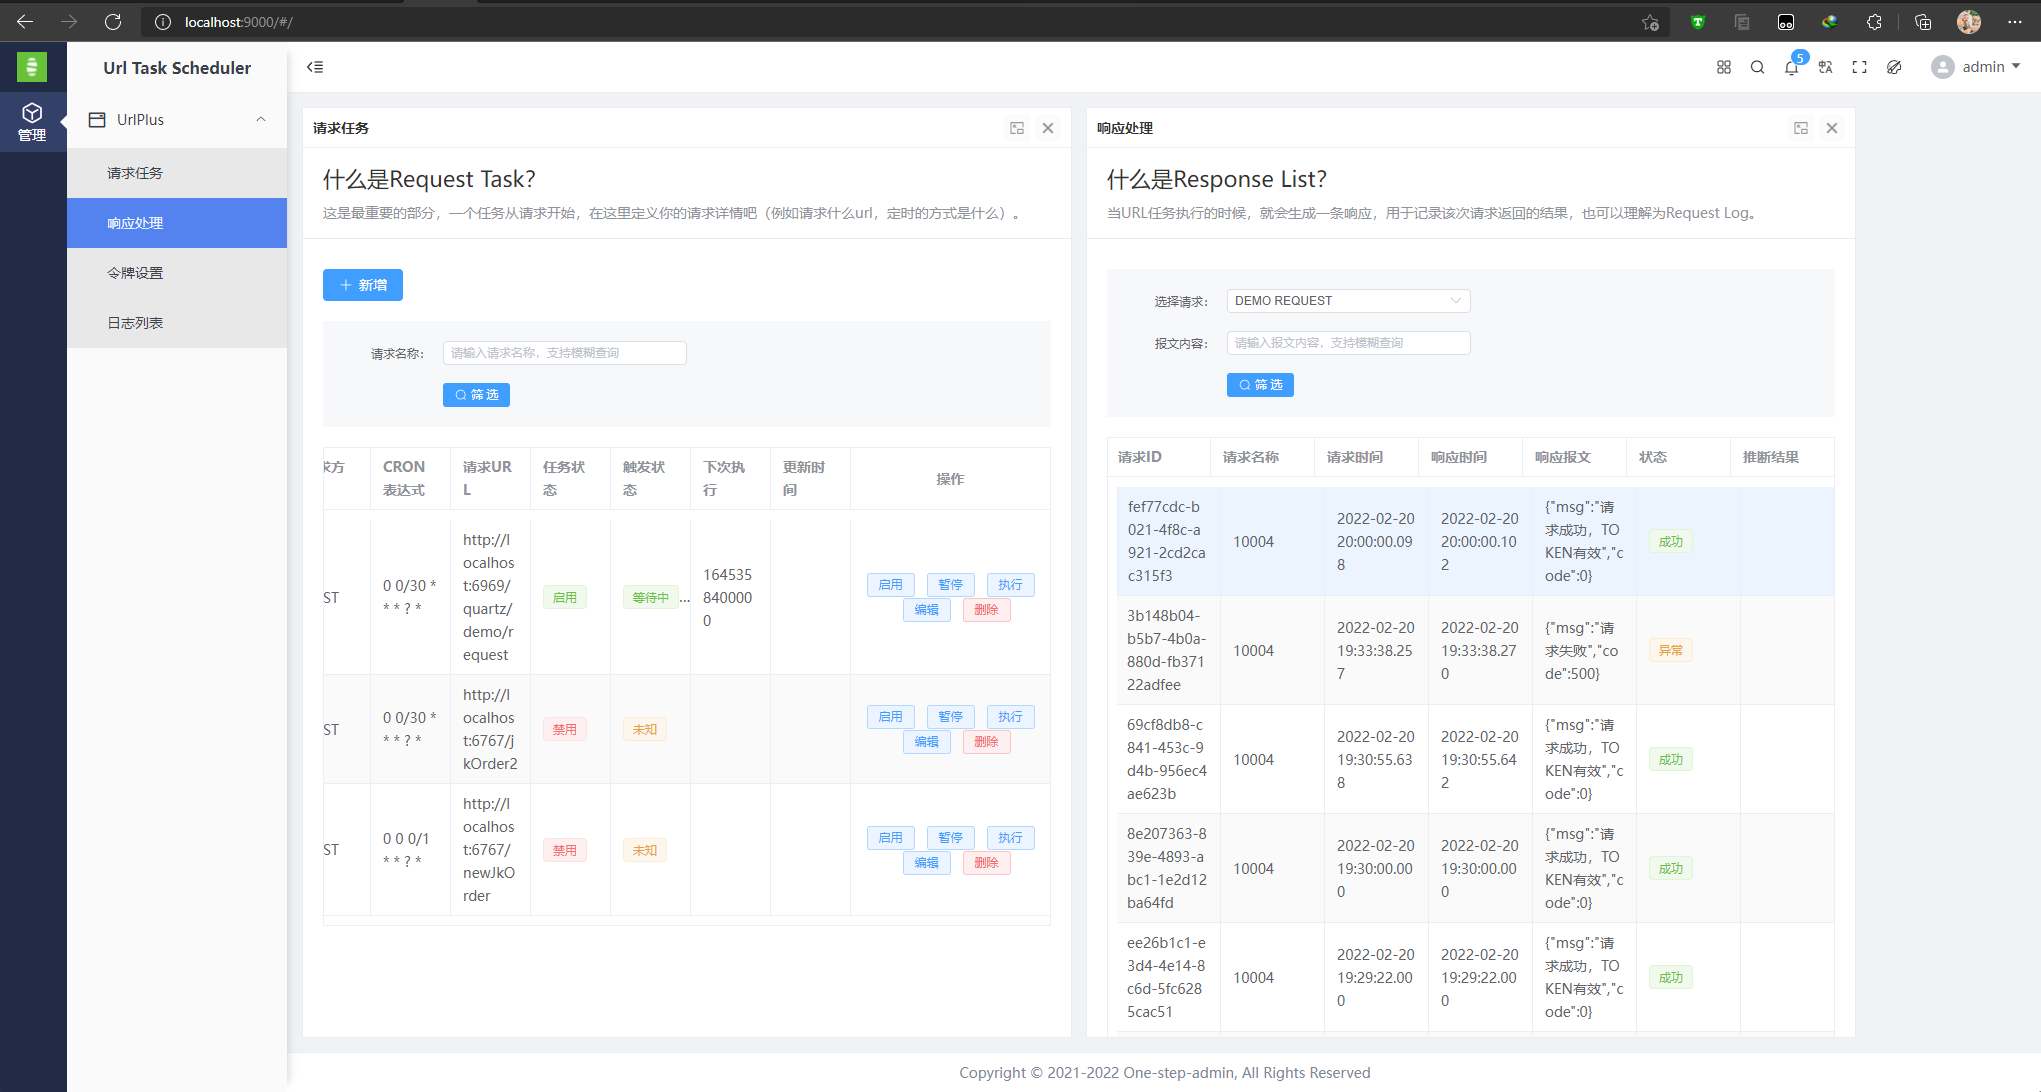
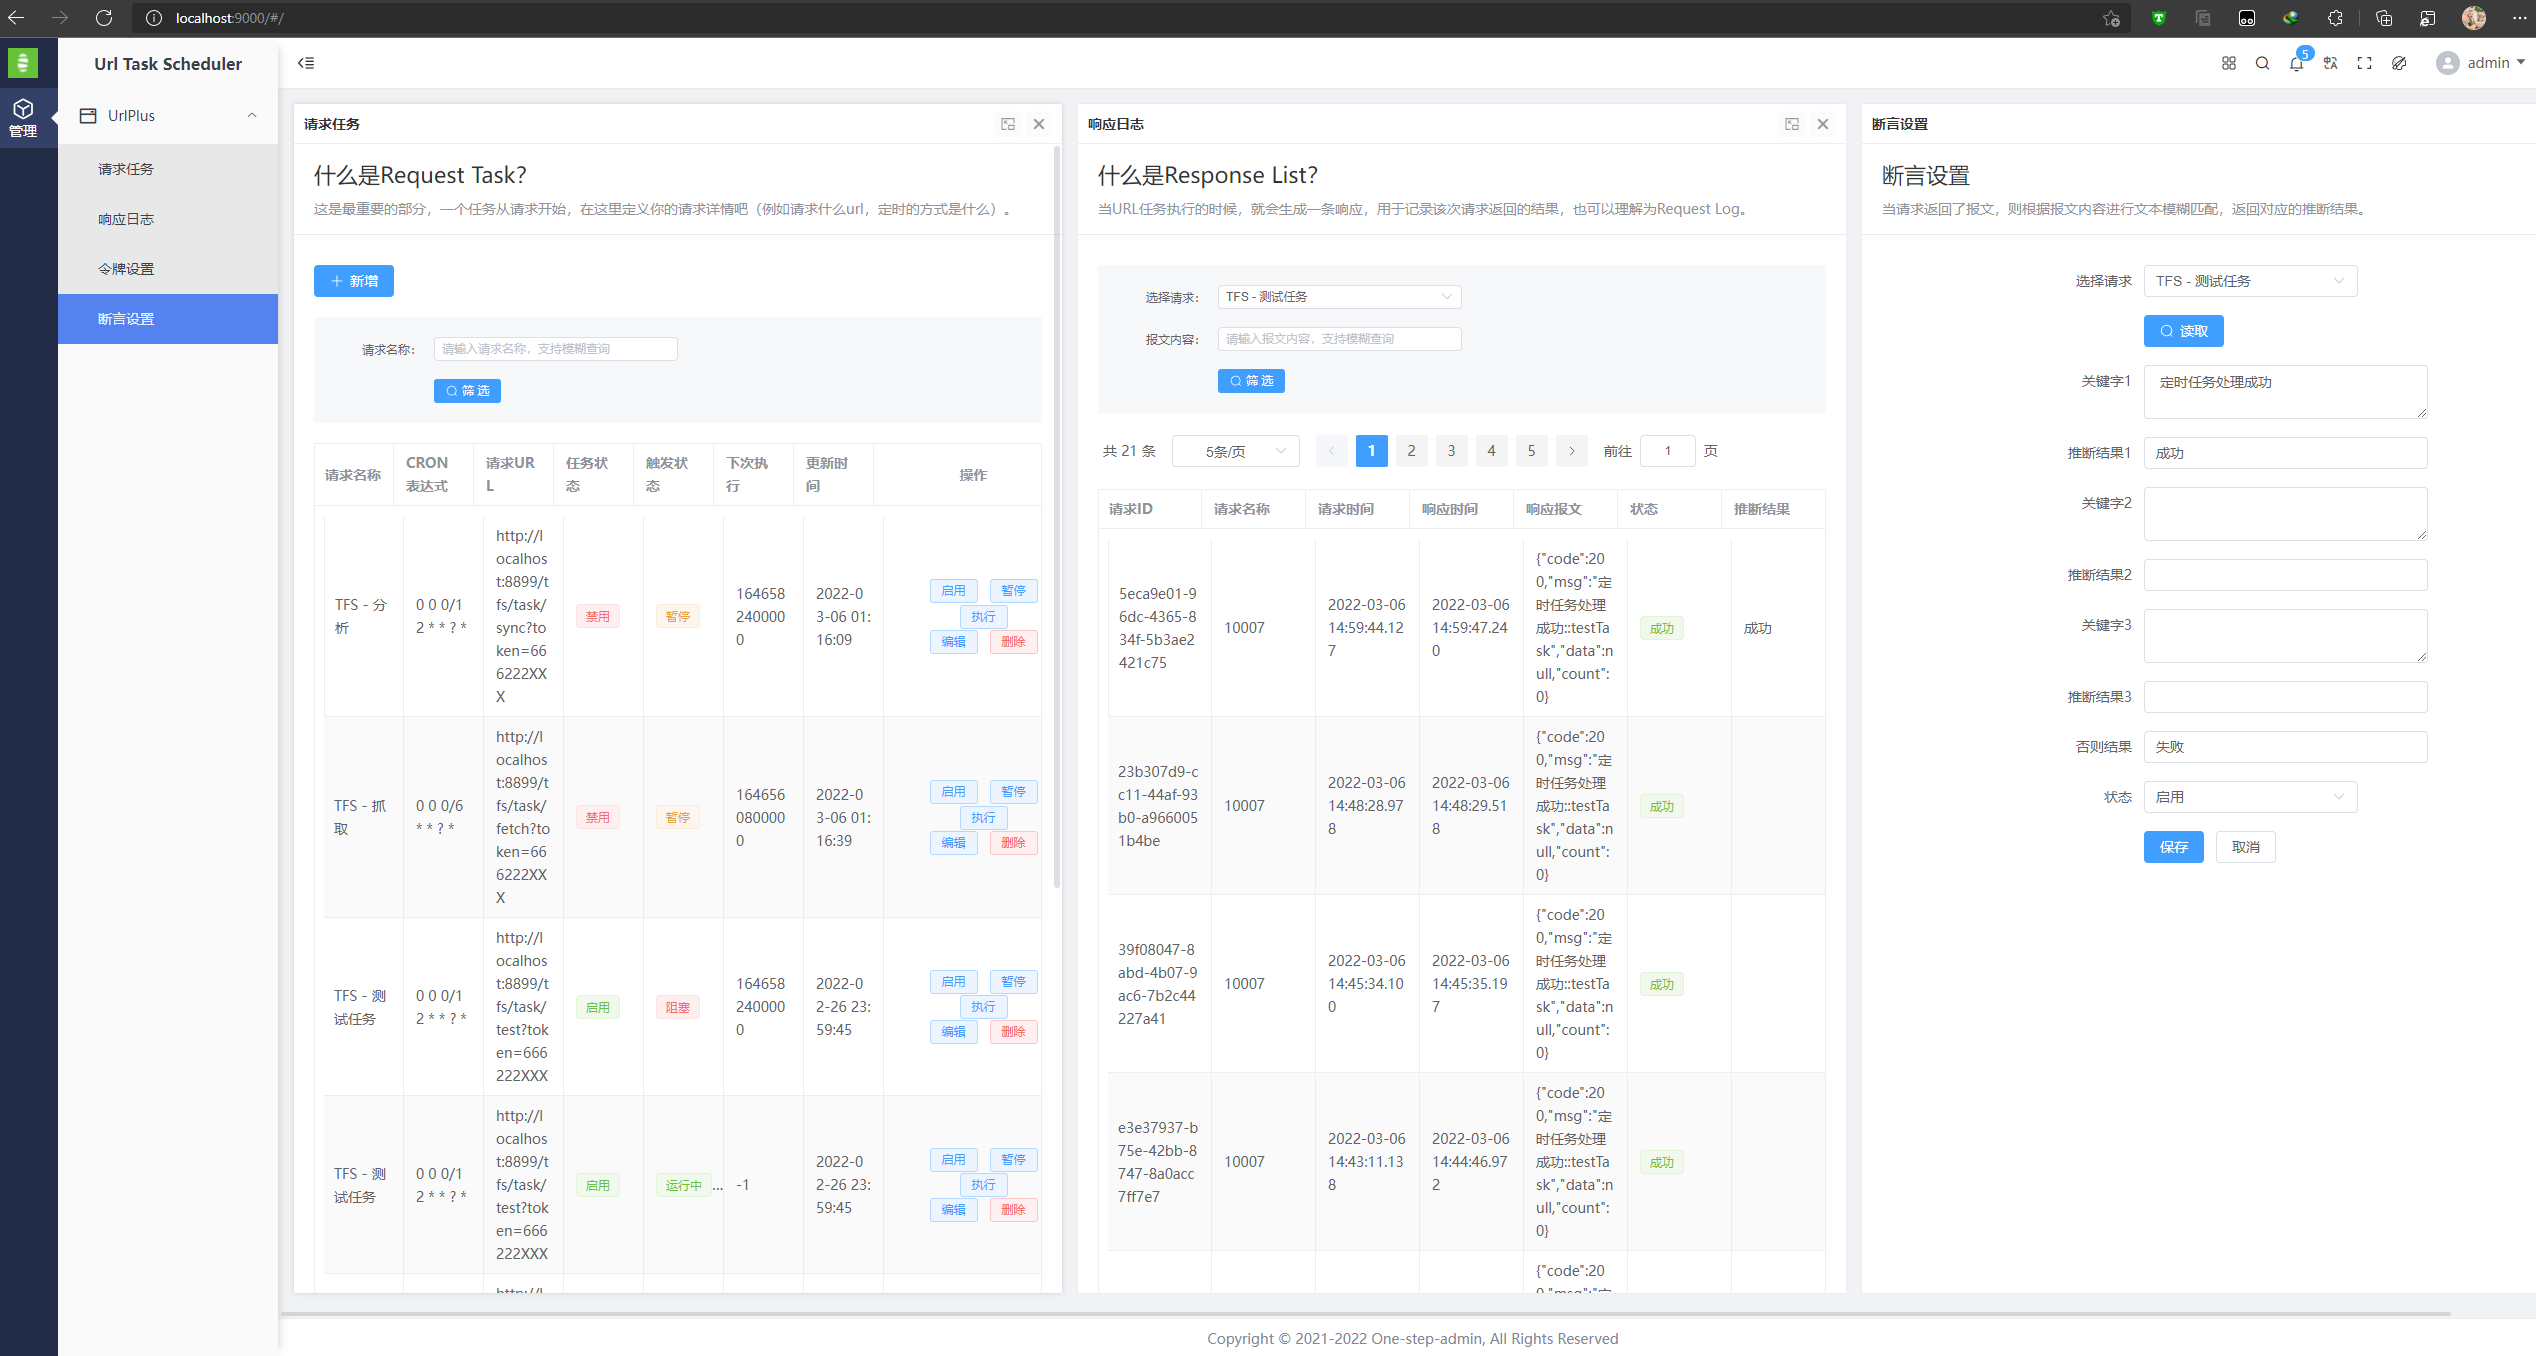
| 2022-03-06 | 实现响应推断处理逻辑.优化UI显示逻辑.
| 2022-03-06 | 实现响应推断处理逻辑.优化UI显示逻辑.

diff --git a/ui/src/views/windows/RequestList/index.vue b/ui/src/views/windows/RequestList/index.vue
@@ -18,9 +18,9 @@
                 </el-form>
             </search-bar>
             <el-table ref="table" class="list-table" :data="dataList" border stripe highlight-current-row>
-                <el-table-column prop="requestId" label="请求ID" />
+<!--                <el-table-column prop="requestId" label="请求ID" />-->
                 <el-table-column prop="requestName" label="请求名称" />
-                <el-table-column prop="requestMethod" label="请求方式" />
+<!--                <el-table-column prop="requestMethod" label="请求方式" />-->
                 <el-table-column prop="requestCron" label="CRON表达式" />
                 <el-table-column prop="requestUrl" label="请求URL" />
                 <el-table-column prop="status" label="任务状态" >
@@ -46,8 +46,8 @@
                 <el-table-column label="操作" width="200" align="center">
                     <template #default="scope">
                         <el-button type="primary" size="small" plain @click="start(scope.row)">启用</el-button>
-                        <el-button type="primary" size="small" plain @click="pause(scope.row)">暂停</el-button>
-                        <el-button type="primary" size="small" plain @click="trigger(scope.row)">执行</el-button>
+                        <el-button type="primary" size="small" plain @click="pause(scope.row)">暂停</el-button><br>
+                        <el-button type="primary" size="small" plain @click="trigger(scope.row)">执行</el-button><br>
                         <el-button type="primary" size="small" plain @click="onEdit(scope.row)">编辑</el-button>
                         <el-button type="danger" size="small" plain @click="onDel(scope.row)">删除</el-button>
                     </template>

diff --git a/ui/src/views/windows/ResponseList/index.vue b/ui/src/views/windows/ResponseList/index.vue
@@ -14,6 +14,7 @@
                                         :key="item.requestId"
                                         :label="item.requestName"
                                         :value="item.requestId"
+                                        @click="getDataList"
                                     >
                                     </el-option>
                                 </el-select>
@@ -35,7 +36,7 @@
             />
             <el-table ref="table" class="list-table" :data="dataList" border stripe highlight-current-row>
                 <el-table-column prop="responseId" label="请求ID" />
-                <el-table-column prop="requestId" label="请求名称" />
+<!--                <el-table-column prop="requestId" label="请求名称" />-->
                 <el-table-column prop="requestTime" label="请求时间" />
                 <el-table-column prop="responseTime" label="响应时间" />
                 <el-table-column prop="responseText" label="响应报文" />

diff --git a/ui/src/views/windows/AssumptionEdit/index.vue b/ui/src/views/windows/AssumptionEdit/index.vue
@@ -129,6 +129,7 @@ export default {
                                   valueFirst:'' ,
                                   valueSecond:'',
                                   valueThird:'',
+                                  status: '1',
                           }
                           this.form.requestId=this.search.requestId
                       }else{

diff --git a/src/main/java/com/software/dev/job/UrlJob.java b/src/main/java/com/software/dev/job/UrlJob.java
@@ -7,8 +7,10 @@ import com.baomidou.mybatisplus.core.conditions.query.QueryWrapper;
 import com.software.dev.domain.UrlRequest;
 import com.software.dev.domain.UrlRequestToken;
 import com.software.dev.domain.UrlResponse;
+import com.software.dev.domain.UrlResponseAssumption;
 import com.software.dev.mapper.UrlRequestMapper;
 import com.software.dev.mapper.UrlRequestTokenMapper;
+import com.software.dev.mapper.UrlResponseAssumptionMapper;
 import com.software.dev.mapper.UrlResponseMapper;
 import com.software.dev.service.UrlPlusService;
 import lombok.extern.slf4j.Slf4j;
@@ -42,6 +44,8 @@ public class UrlJob  implements Job, Serializable {
     private UrlPlusService urlPlusService;
     @Autowired
     private UrlRequestTokenMapper urlRequestTokenMapper;
+    @Autowired
+    private UrlResponseAssumptionMapper urlResponseAssumptionMapper;
 
 
     @Override
@@ -111,7 +115,19 @@ public class UrlJob  implements Job, Serializable {
                     }
                     urlResponse.setStatus(1);
                     urlResponse.setResponseText(responseMsg);
-                    //TODO 推断逻辑 assumption
+                    //URL PLUS之推断逻辑 by Moshow 2022-03-06
+                    UrlResponseAssumption urlResponseAssumption = urlResponseAssumptionMapper.selectOne(new QueryWrapper<UrlResponseAssumption>().eq("request_id",urlId));
+                    if(urlResponseAssumption!=null){
+                        if(!StringUtils.isAllEmpty(responseMsg,urlResponseAssumption.getKeyFirst())&&responseMsg.contains(urlResponseAssumption.getKeyFirst())){
+                            urlResponse.setAssumptionResult(urlResponseAssumption.getValueFirst());
+                        }else if(!StringUtils.isAllEmpty(responseMsg,urlResponseAssumption.getKeySecond())&&responseMsg.contains(urlResponseAssumption.getKeySecond())){
+                            urlResponse.setAssumptionResult(urlResponseAssumption.getValueSecond());
+                        }else if(!StringUtils.isAllEmpty(responseMsg,urlResponseAssumption.getKeyThird())&&responseMsg.contains(urlResponseAssumption.getKeyThird())){
+                            urlResponse.setAssumptionResult(urlResponseAssumption.getValueThird());
+                        }else{
+                            urlResponse.setAssumptionResult(urlResponseAssumption.getValueElse());
+                        }
+                    }
                 }catch(Exception e){
                     //优化异常提示
                     urlResponse.setStatus(9);

diff --git a/README.md b/README.md
@@ -76,7 +76,7 @@ release log
 ----
 | 日期         | 内容                                                        |
 |------------|-----------------------------------------------------------|
-| 更新预告       | 优化Assumption处理逻辑                                          |
+| 2022-03-06 | 实现响应推断处理逻辑.优化UI显示逻辑.                                      |
 | 2022-02-25 | 修复Token页面，新增Assumption内容.                                 |
 | 2022-02-22 | 请求和响应的界面优化，分页插件修复.                                        |
 | 2022-02-21 | vue跟后台分离,基于one-step-admin实现简单的界面功能,优化token和request.       |
